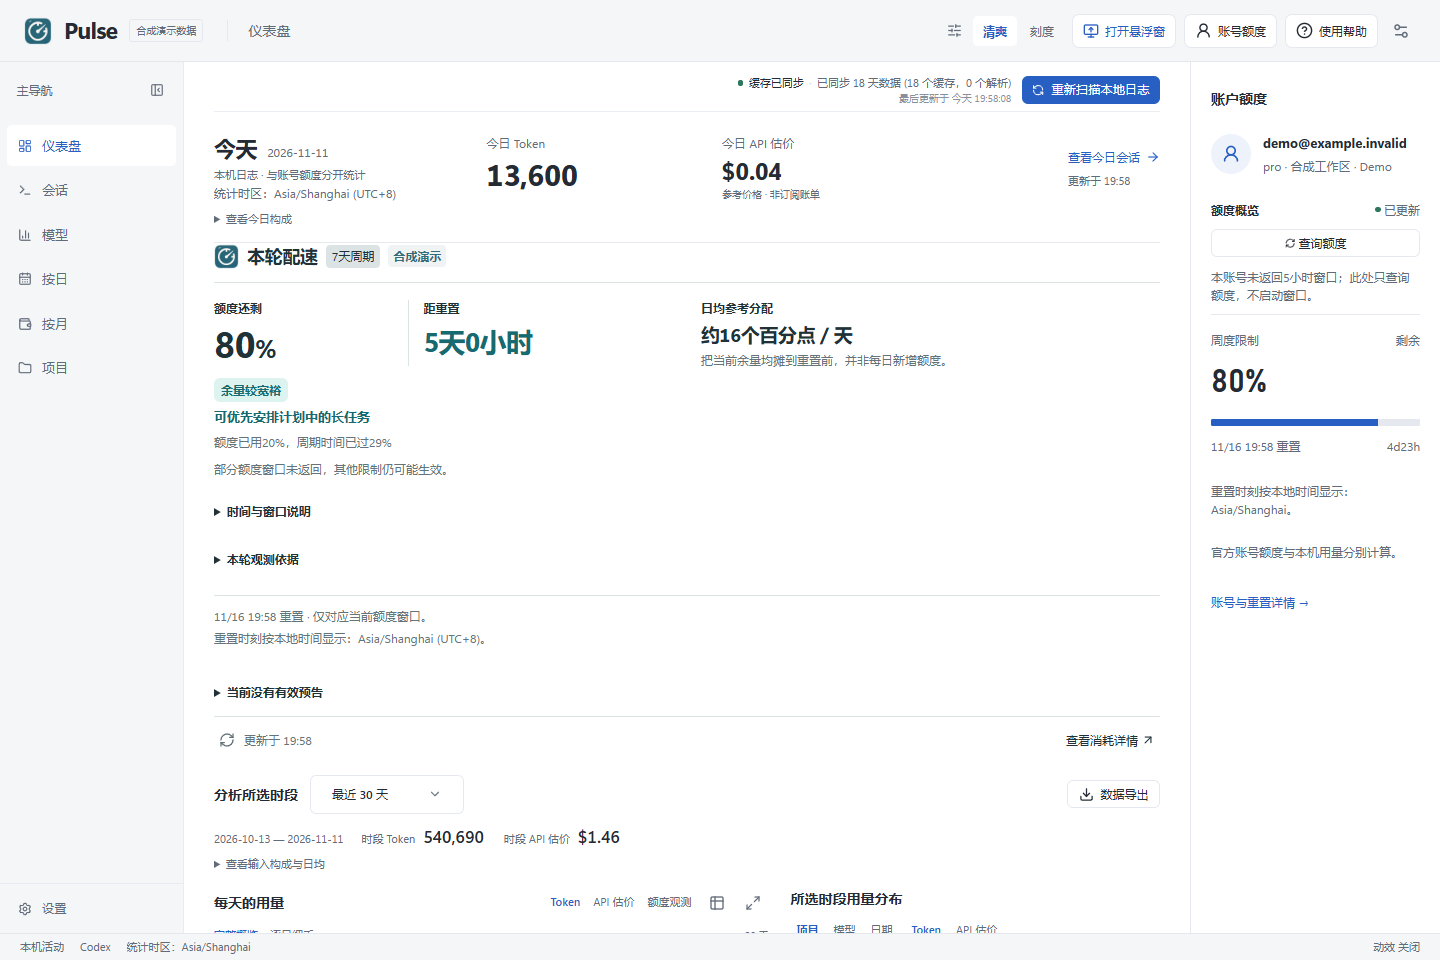
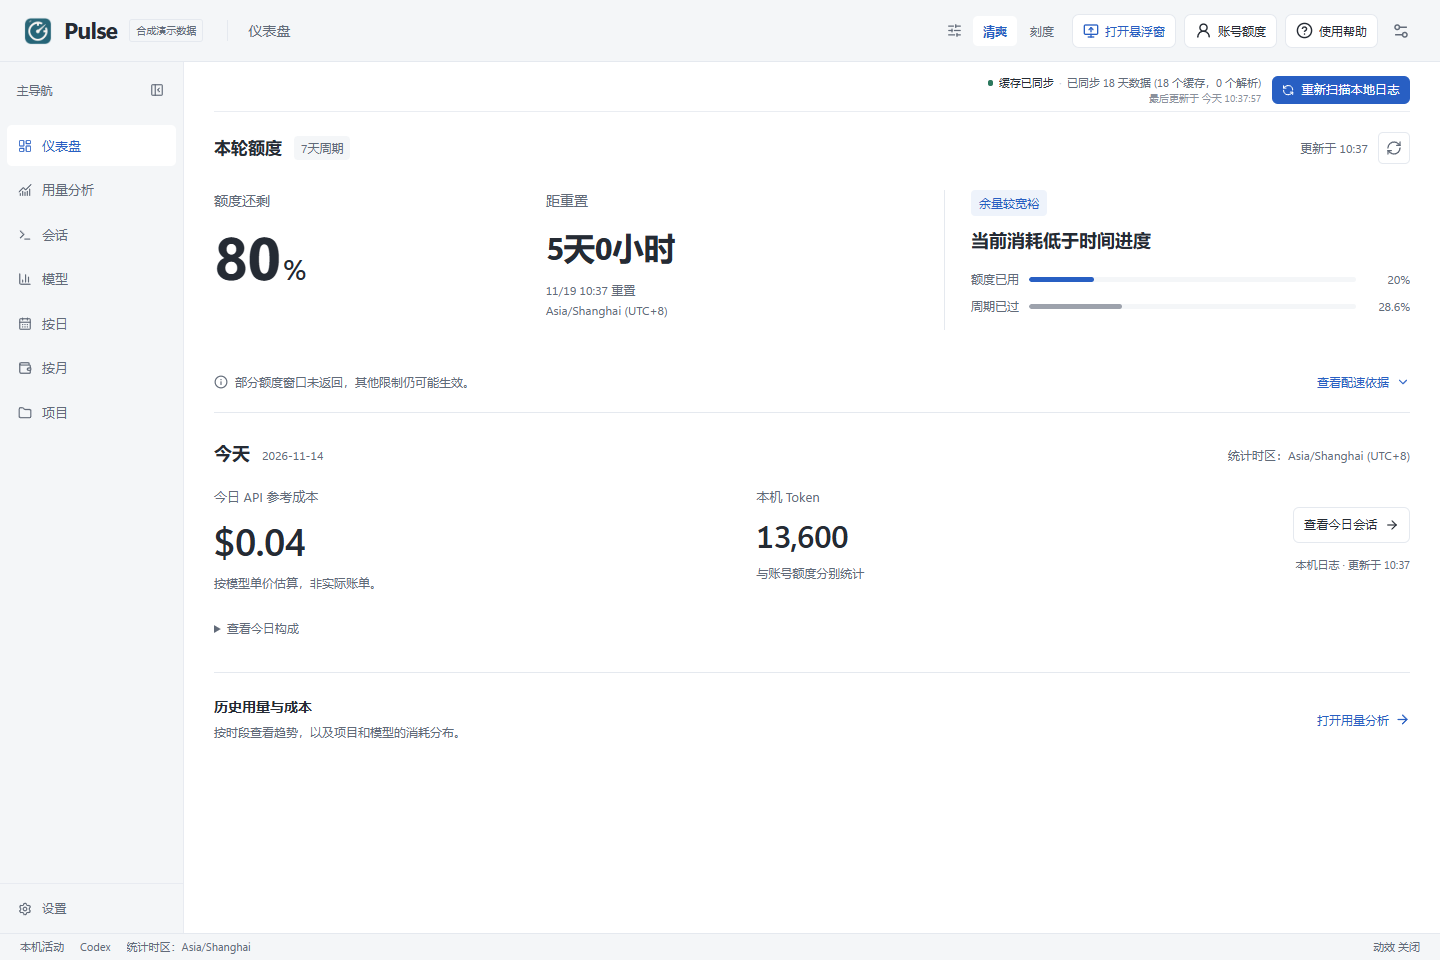
docs: show the dashboard and usage analysis layouts

diff --git a/docs/preview.html b/docs/preview.html
@@ -132,7 +132,7 @@
       <p class="demo-note"><span lang="zh-CN">以下截图与网页演示均使用合成记录，不含真实账号或对话，不会读取你的本机日志。未返回的账号信息保持未知。点选截图可查看原图。</span><span class="caption-en" lang="en">Screenshots and the browser demo use synthetic records, contain no real accounts or conversations, and do not read your local logs. Unavailable account data stays unknown. Select an image to view the original.</span></p>
     </div>
     <nav class="section-nav" aria-label="图集导航">
-      <a href="#themes">清爽与刻度</a><a href="#views">工作视图</a><a href="#pricing">价格目录</a><a href="#replay">会话回放</a><a href="#settings">设置</a><a href="#widget">悬浮窗</a><a href="#tray">系统托盘</a><a href="#scope">数据边界</a>
+      <a href="#themes">清爽与刻度</a><a href="#usage-analysis">用量分析</a><a href="#views">工作视图</a><a href="#pricing">价格目录</a><a href="#replay">会话回放</a><a href="#settings">设置</a><a href="#widget">悬浮窗</a><a href="#tray">系统托盘</a><a href="#scope">数据边界</a>
     </nav>
     <main id="main">
       <section id="themes" class="theme-section" aria-labelledby="themes-title">
@@ -140,6 +140,13 @@
         <div class="screen-grid">
           <figure><a class="screenshot" href="screenshots/clear-overview.png" target="_blank" rel="noopener" aria-label="查看清爽 · 仪表盘原图，新标签页打开"><img loading="lazy" decoding="async" src="screenshots/clear-overview.png" alt="Codex Pulse Clear 仪表盘，合成演示数据"></a><figcaption><h3>清爽 · 仪表盘 <span lang="en">Clear dashboard</span></h3><p><span lang="zh-CN">首页聚焦本轮额度、配速与今日参考成本，历史趋势进入独立用量分析。</span><span class="caption-en" lang="en">Current quota, pacing and today's reference cost stay on the dashboard; historical trends live in Usage analysis.</span></p></figcaption></figure>
           <figure><a class="screenshot" href="screenshots/meter-overview.png" target="_blank" rel="noopener" aria-label="查看刻度 · 仪表盘原图，新标签页打开"><img loading="lazy" decoding="async" src="screenshots/meter-overview.png" alt="Codex Pulse Meter 仪表盘，合成演示数据"></a><figcaption><h3>刻度 · 仪表盘 <span lang="en">Meter dashboard</span></h3><p><span lang="zh-CN">首页聚焦本轮额度、配速与今日参考成本，历史趋势进入独立用量分析。</span><span class="caption-en" lang="en">Current quota, pacing and today's reference cost stay on the dashboard; historical trends live in Usage analysis.</span></p></figcaption></figure>
+        </div>
+      </section>
+      <section id="usage-analysis" aria-labelledby="analysis-title">
+        <div class="section-heading"><h2 id="analysis-title">独立用量分析</h2><p>所选时段的汇总、趋势、消耗分布和导出集中在同一页。</p></div>
+        <div class="screen-grid">
+          <figure><a class="screenshot" href="screenshots/clear-analysis.png" target="_blank" rel="noopener" aria-label="查看清爽 · 用量分析原图，新标签页打开"><img loading="lazy" decoding="async" src="screenshots/clear-analysis.png" alt="Codex Pulse 清爽用量分析，合成数据"></a><figcaption><h3>清爽 · 用量分析 <span lang="en">Usage analysis</span></h3><p><span lang="zh-CN">历史范围与今日读数独立，选择日期后查看明细。</span><span class="caption-en" lang="en">Historical ranges remain separate from today's readings. Select a date for detail.</span></p></figcaption></figure>
+          <figure><a class="screenshot" href="screenshots/meter-analysis.png" target="_blank" rel="noopener" aria-label="查看刻度 · 用量分析原图，新标签页打开"><img loading="lazy" decoding="async" src="screenshots/meter-analysis.png" alt="Codex Pulse 刻度用量分析，合成数据"></a><figcaption><h3>刻度 · 用量分析 <span lang="en">Usage analysis</span></h3><p><span lang="zh-CN">历史范围与今日读数独立，选择日期后查看明细。</span><span class="caption-en" lang="en">Historical ranges remain separate from today's readings. Select a date for detail.</span></p></figcaption></figure>
         </div>
       </section>
       <section id="views" aria-labelledby="views-title">

diff --git a/README.en.md b/README.en.md
@@ -45,6 +45,14 @@ Try the [roomy quota](https://zhulongqihan.github.io/codex-pulse/?demo=1&coachSc
 
 Both styles share the same capabilities. The dashboard prioritizes quota and today's reference cost; Usage analysis in the sidebar retains complete-range trends, distributions and exports. Clear uses lightweight comparisons and continuous tables; Meter emphasizes one dark trend field. Daily detail, a data table, fullscreen viewing and keyboard controls remain available.
 
+### Separate Usage analysis
+
+Open historical trends and distributions from **Usage analysis** in the sidebar. Today's dashboard remains independent; the range selector, chart and exports use the same period.
+
+| Clear | Meter |
+|---|---|
+| ![Clear Usage analysis with synthetic data](docs/screenshots/clear-analysis.png) | ![Meter Usage analysis with synthetic data](docs/screenshots/meter-analysis.png) |
+
 ## Run on Windows
 
 1. Download `CodexPulse-<version>-windows-x64.zip` and its `.sha256` file from the [latest release](https://github.com/zhulongqihan/codex-pulse/releases/latest).

diff --git a/README.md b/README.md
@@ -45,6 +45,14 @@
 
 两版共用业务能力。仪表盘优先展示额度与今日参考成本；左侧“用量分析”保留完整时段趋势、分布与导出。清爽使用轻量比较图与连续表格，刻度突出一块深色趋势区域；逐日细看、数据表、全屏和键盘操作保持可达。
 
+### 独立用量分析
+
+从左侧“用量分析”查看历史趋势与消耗分布；仪表盘中的今天保持独立。日期范围、图表与导出使用同一时段。
+
+| 清爽 Clear | 刻度 Meter |
+|---|---|
+| ![清爽用量分析，合成数据](docs/screenshots/clear-analysis.png) | ![刻度用量分析，合成数据](docs/screenshots/meter-analysis.png) |
+
 ## Windows 启动
 
 1. 在 [发布页](https://github.com/zhulongqihan/codex-pulse/releases/latest) 下载 `CodexPulse-<版本>-windows-x64.zip` 和对应 `.sha256` 文件。

diff --git a/README.zh-CN.md b/README.zh-CN.md
@@ -45,6 +45,14 @@
 
 两版共用业务能力。仪表盘优先展示额度与今日参考成本；左侧“用量分析”保留完整时段趋势、分布与导出。清爽使用轻量比较图与连续表格，刻度突出一块深色趋势区域；逐日细看、数据表、全屏和键盘操作保持可达。
 
+### 独立用量分析
+
+从左侧“用量分析”查看历史趋势与消耗分布；仪表盘中的今天保持独立。日期范围、图表与导出使用同一时段。
+
+| 清爽 Clear | 刻度 Meter |
+|---|---|
+| ![清爽用量分析，合成数据](docs/screenshots/clear-analysis.png) | ![刻度用量分析，合成数据](docs/screenshots/meter-analysis.png) |
+
 ## Windows 启动
 
 1. 在 [发布页](https://github.com/zhulongqihan/codex-pulse/releases/latest) 下载 `CodexPulse-<版本>-windows-x64.zip` 和对应 `.sha256` 文件。
